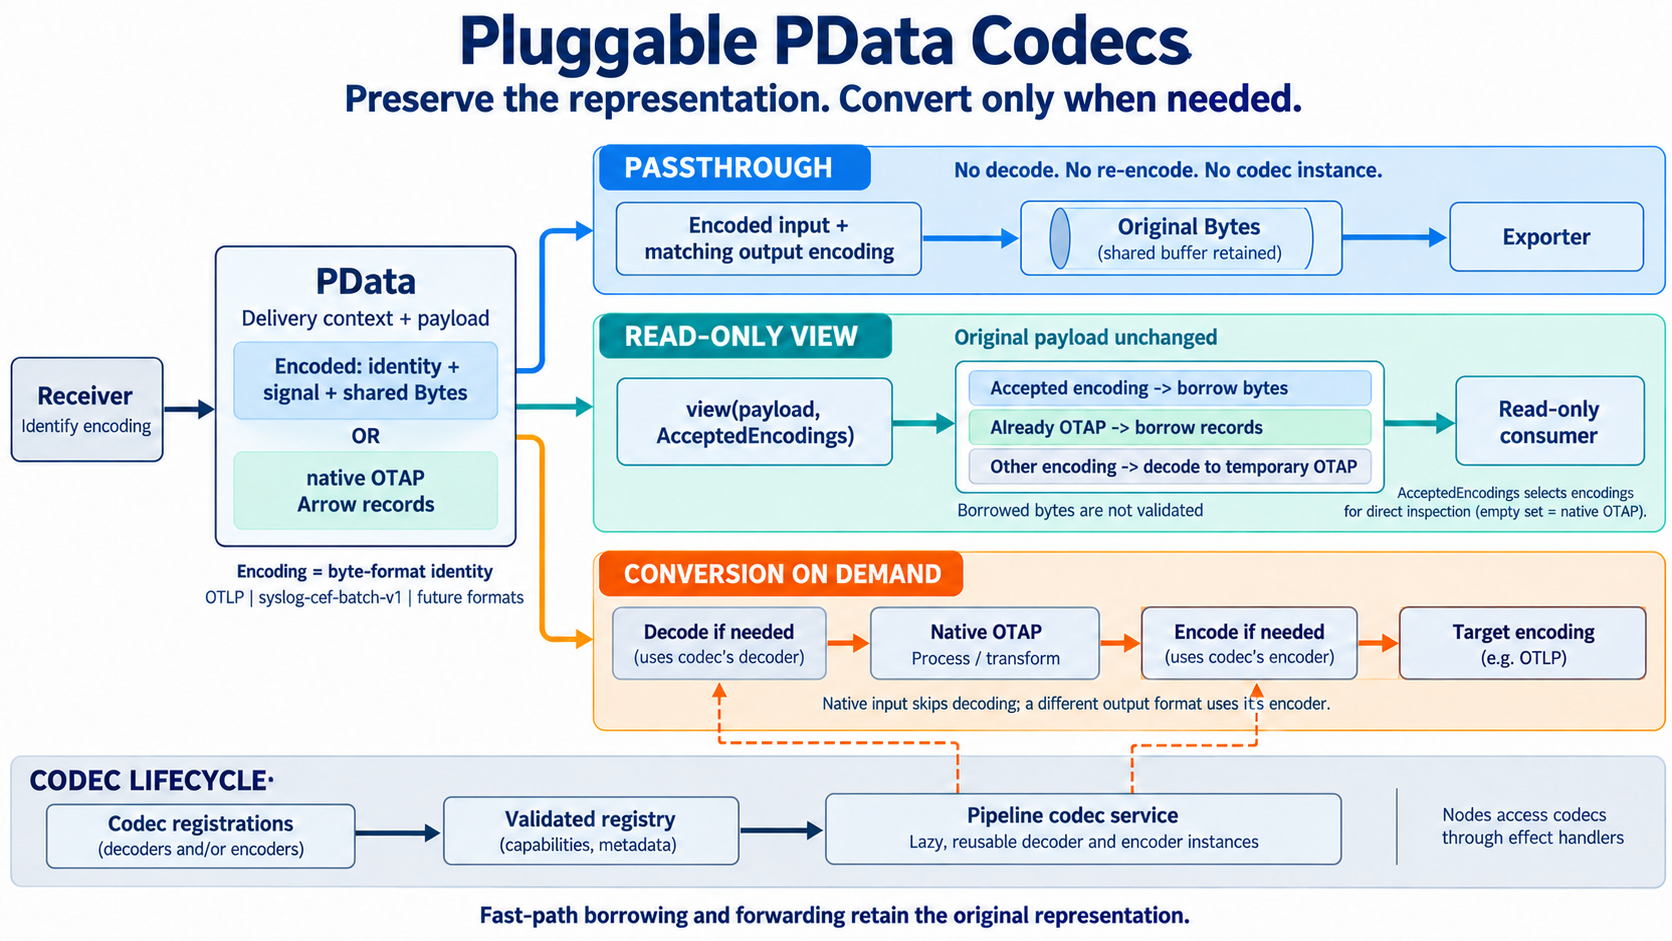
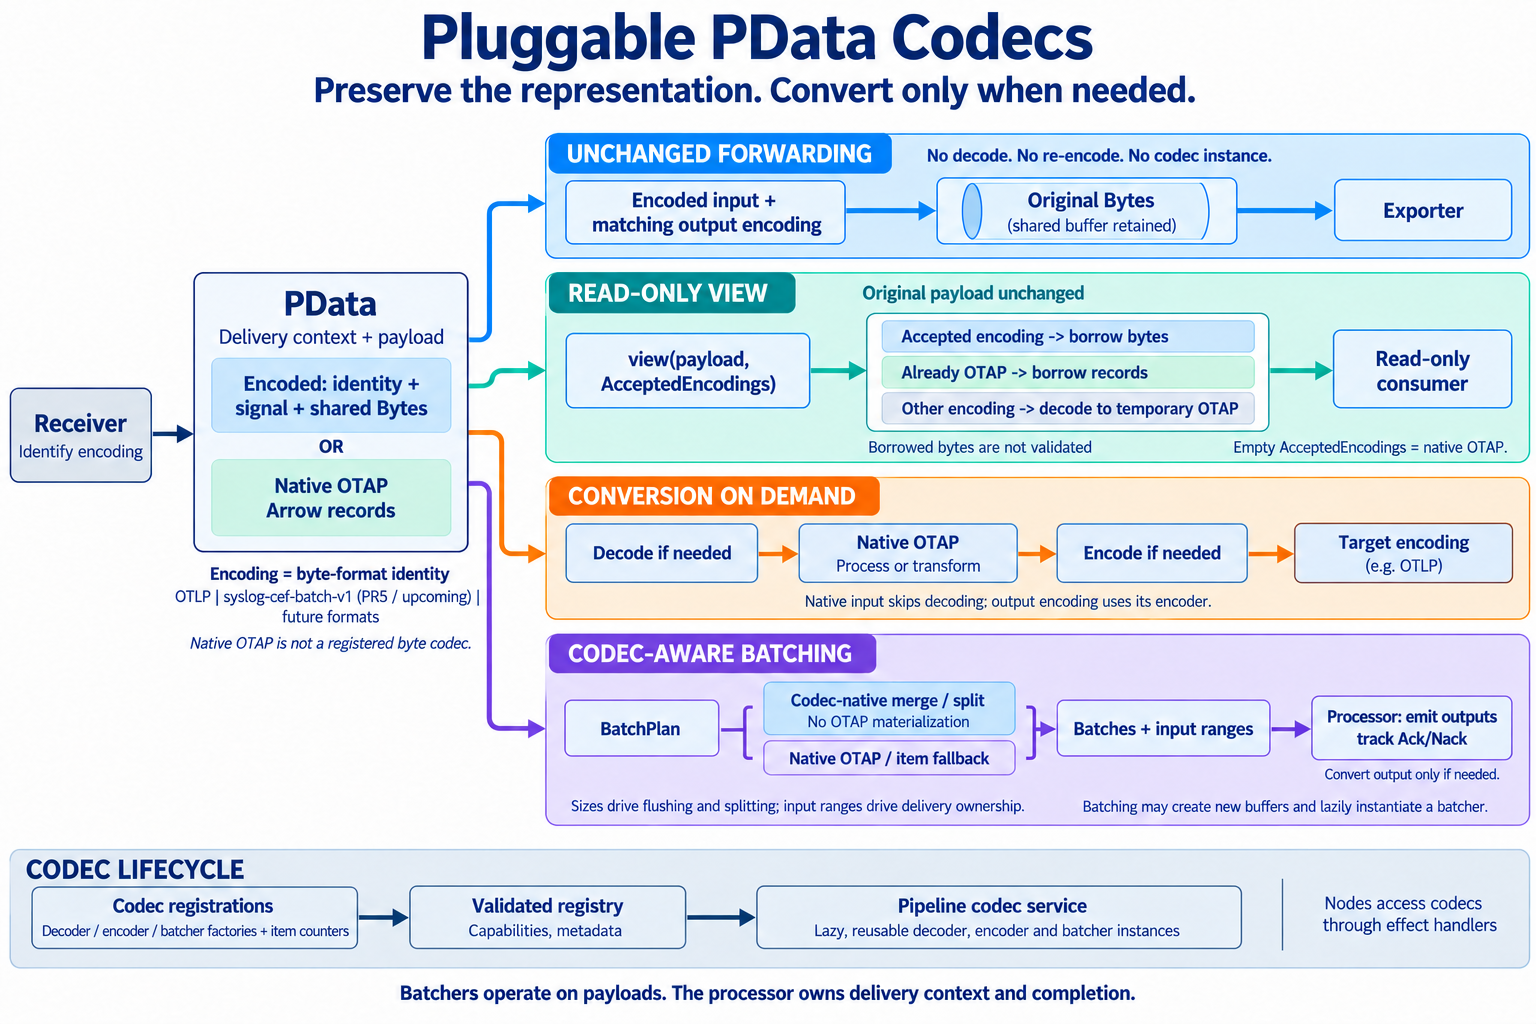
docs(pdata): illustrate codec-aware batching in overview

diff --git a/rust/otap-dataflow/crates/pdata-codec/README.md b/rust/otap-dataflow/crates/pdata-codec/README.md
@@ -13,27 +13,35 @@ metadata; it never owns a codec instance.
 
 ## Architecture overview
 
-![PData passthrough, read-only views, and on-demand conversion][codec-diagram]
+![PData forwarding, views, conversion, batching, and codec lifecycle][codec-diagram]
 
 [codec-diagram]: assets/pdata-codec-framework.png
 
-The three paths are alternatives selected by the consumer, not sequential
+The four paths are alternatives selected by the consumer, not sequential
 pipeline stages:
 
-- **Passthrough (blue):** a matching output encoding forwards the shared bytes
-  without decoding, re-encoding, or creating a codec instance.
+- **Unchanged forwarding (blue):** a matching output encoding forwards the
+  original shared bytes without decoding, re-encoding, or creating a codec
+  instance. This guarantee does not apply to merge/split operations.
 - **Read-only view (teal):** `AcceptedEncodings` selects direct byte borrowing.
   Existing OTAP records are borrowed; other encodings decode to temporary OTAP
   records without changing the original payload.
 - **On-demand conversion (orange):** decode to native OTAP when processing
   requires records, then encode if the output requires an encoded format.
   Already-native input skips decoding.
+- **Codec-aware batching (purple):** `BatchPlan` selects codec-native merge/split
+  or native OTAP batching, including item-based fallback. Outputs carry input
+  ranges for delivery tracking; the processor retains contexts and owns Ack/Nack.
+  Encoded batching can create new buffers and instantiate a reusable batcher
+  without materializing OTAP. See [batching flow](#batching-flow) and
+  [input-range ownership](#input-ranges-and-delivery-ownership) for details.
 
 The lower band shows codec registrations, registry validation, and the pipeline
-service that lazily creates and reuses decoder and encoder instances. Nodes
-access that service through effect handlers.
+service that lazily creates and reuses decoder, encoder, and batcher instances.
+Nodes access that service through effect handlers; stateless item counters do
+not require an instance.
 
-The syslog encoding shown belongs to the follow-up syslog codec integration.
+The syslog encoding is marked as upcoming in PR5, not part of PR3.
 Native OTAP is the common processing representation, not a registered byte codec.
 
 ## Design model
